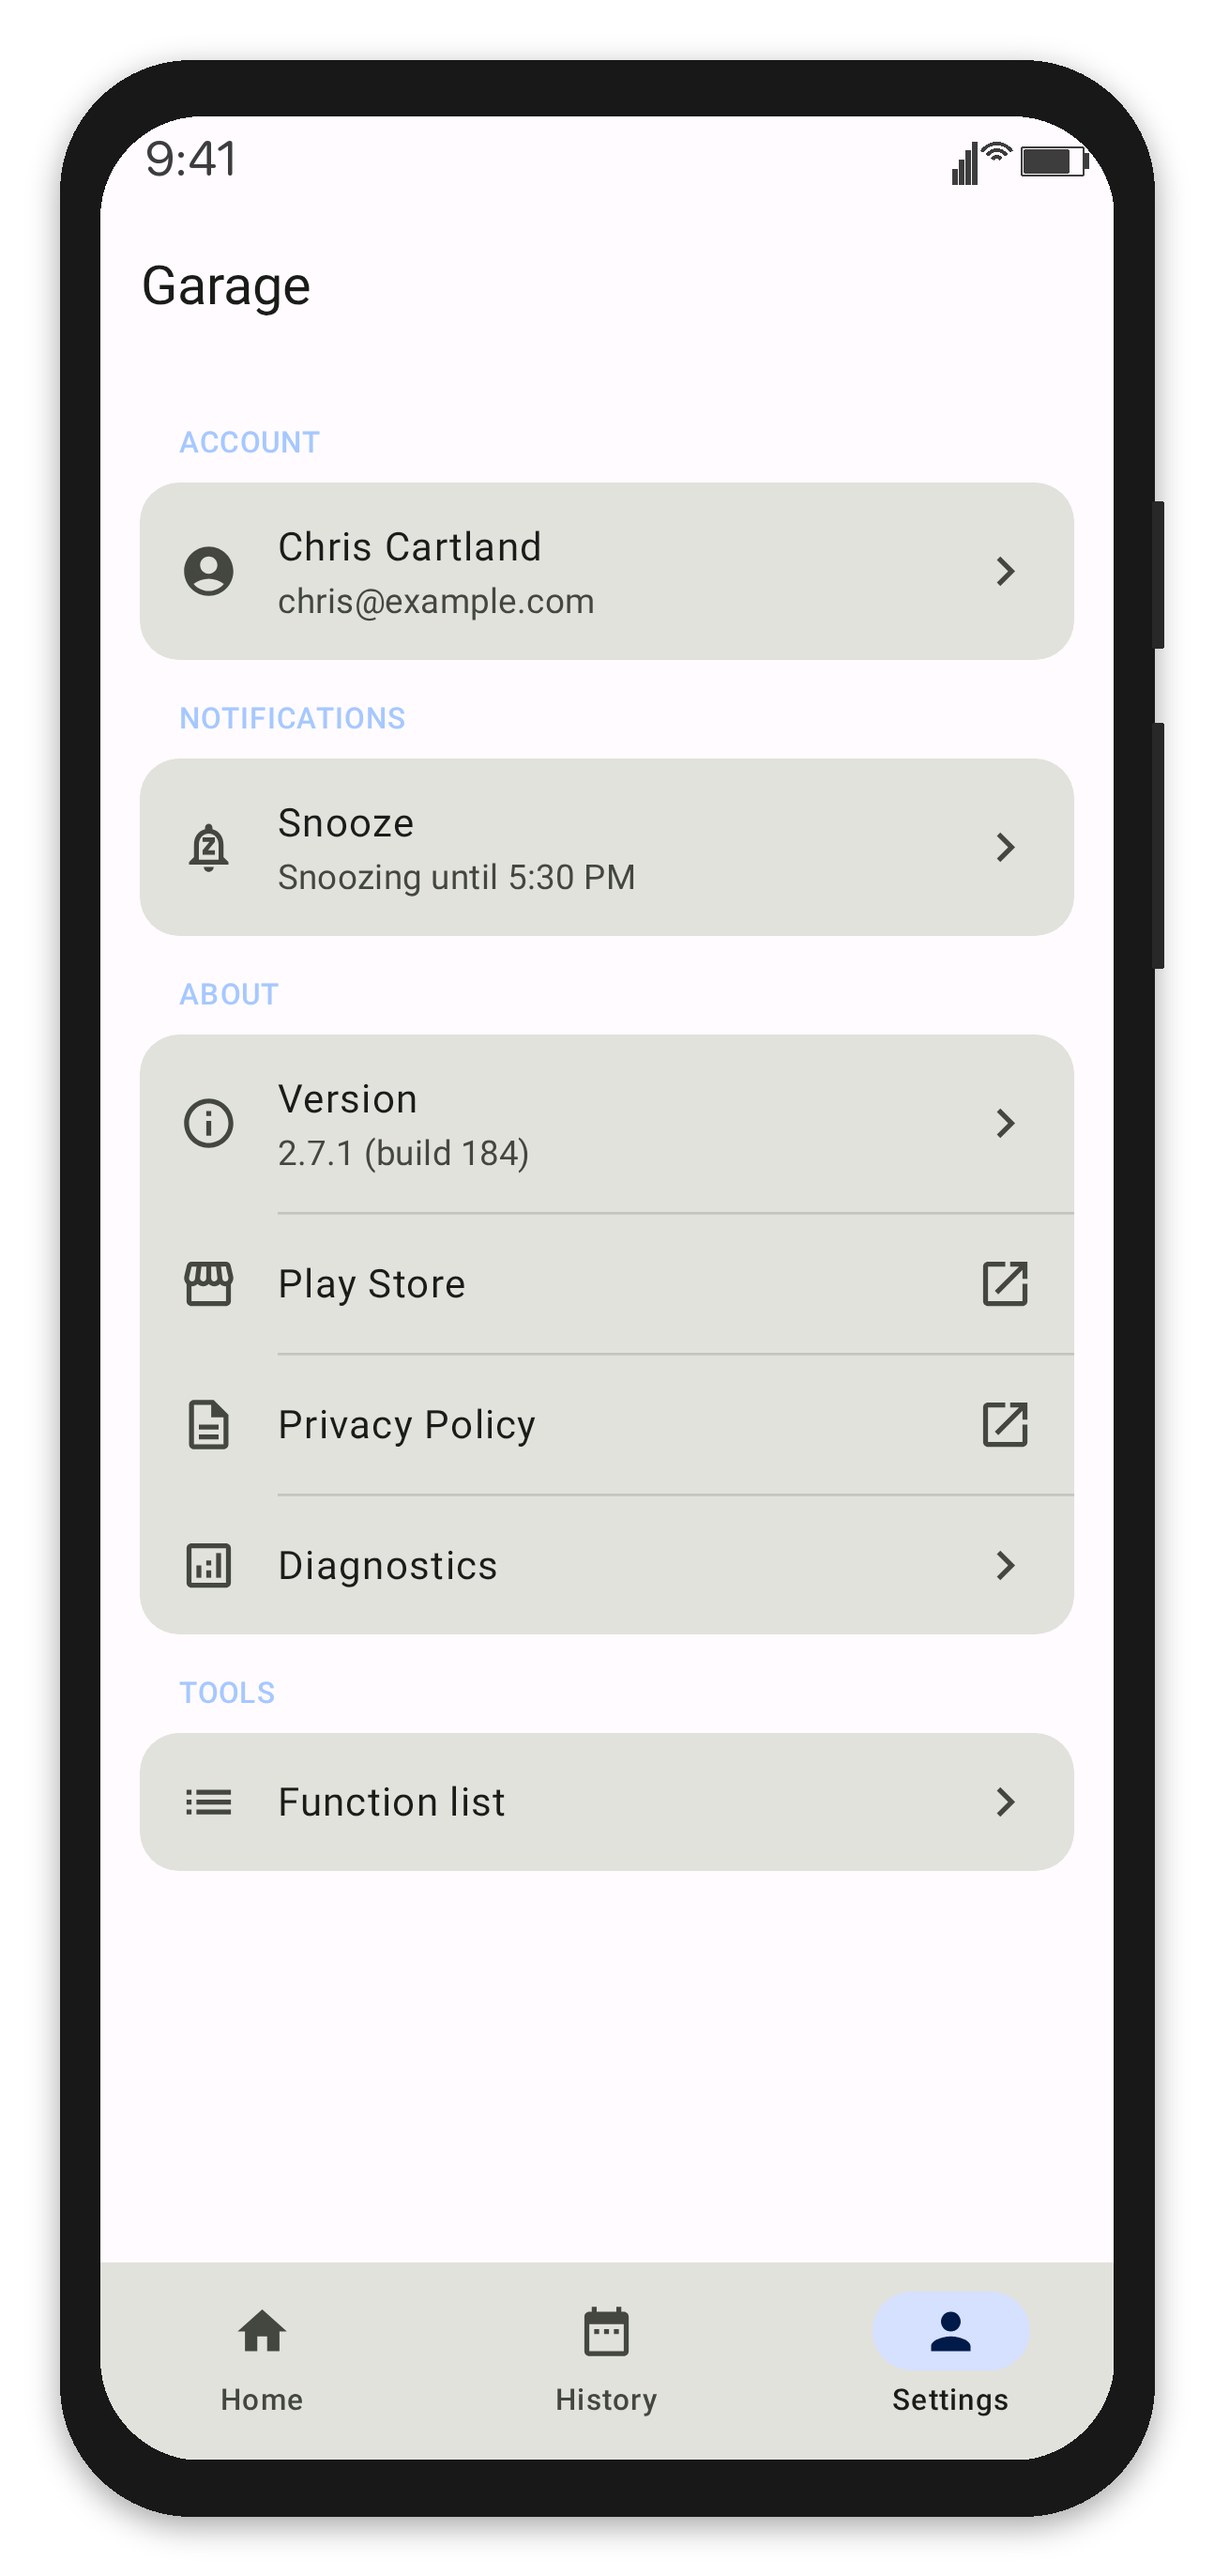
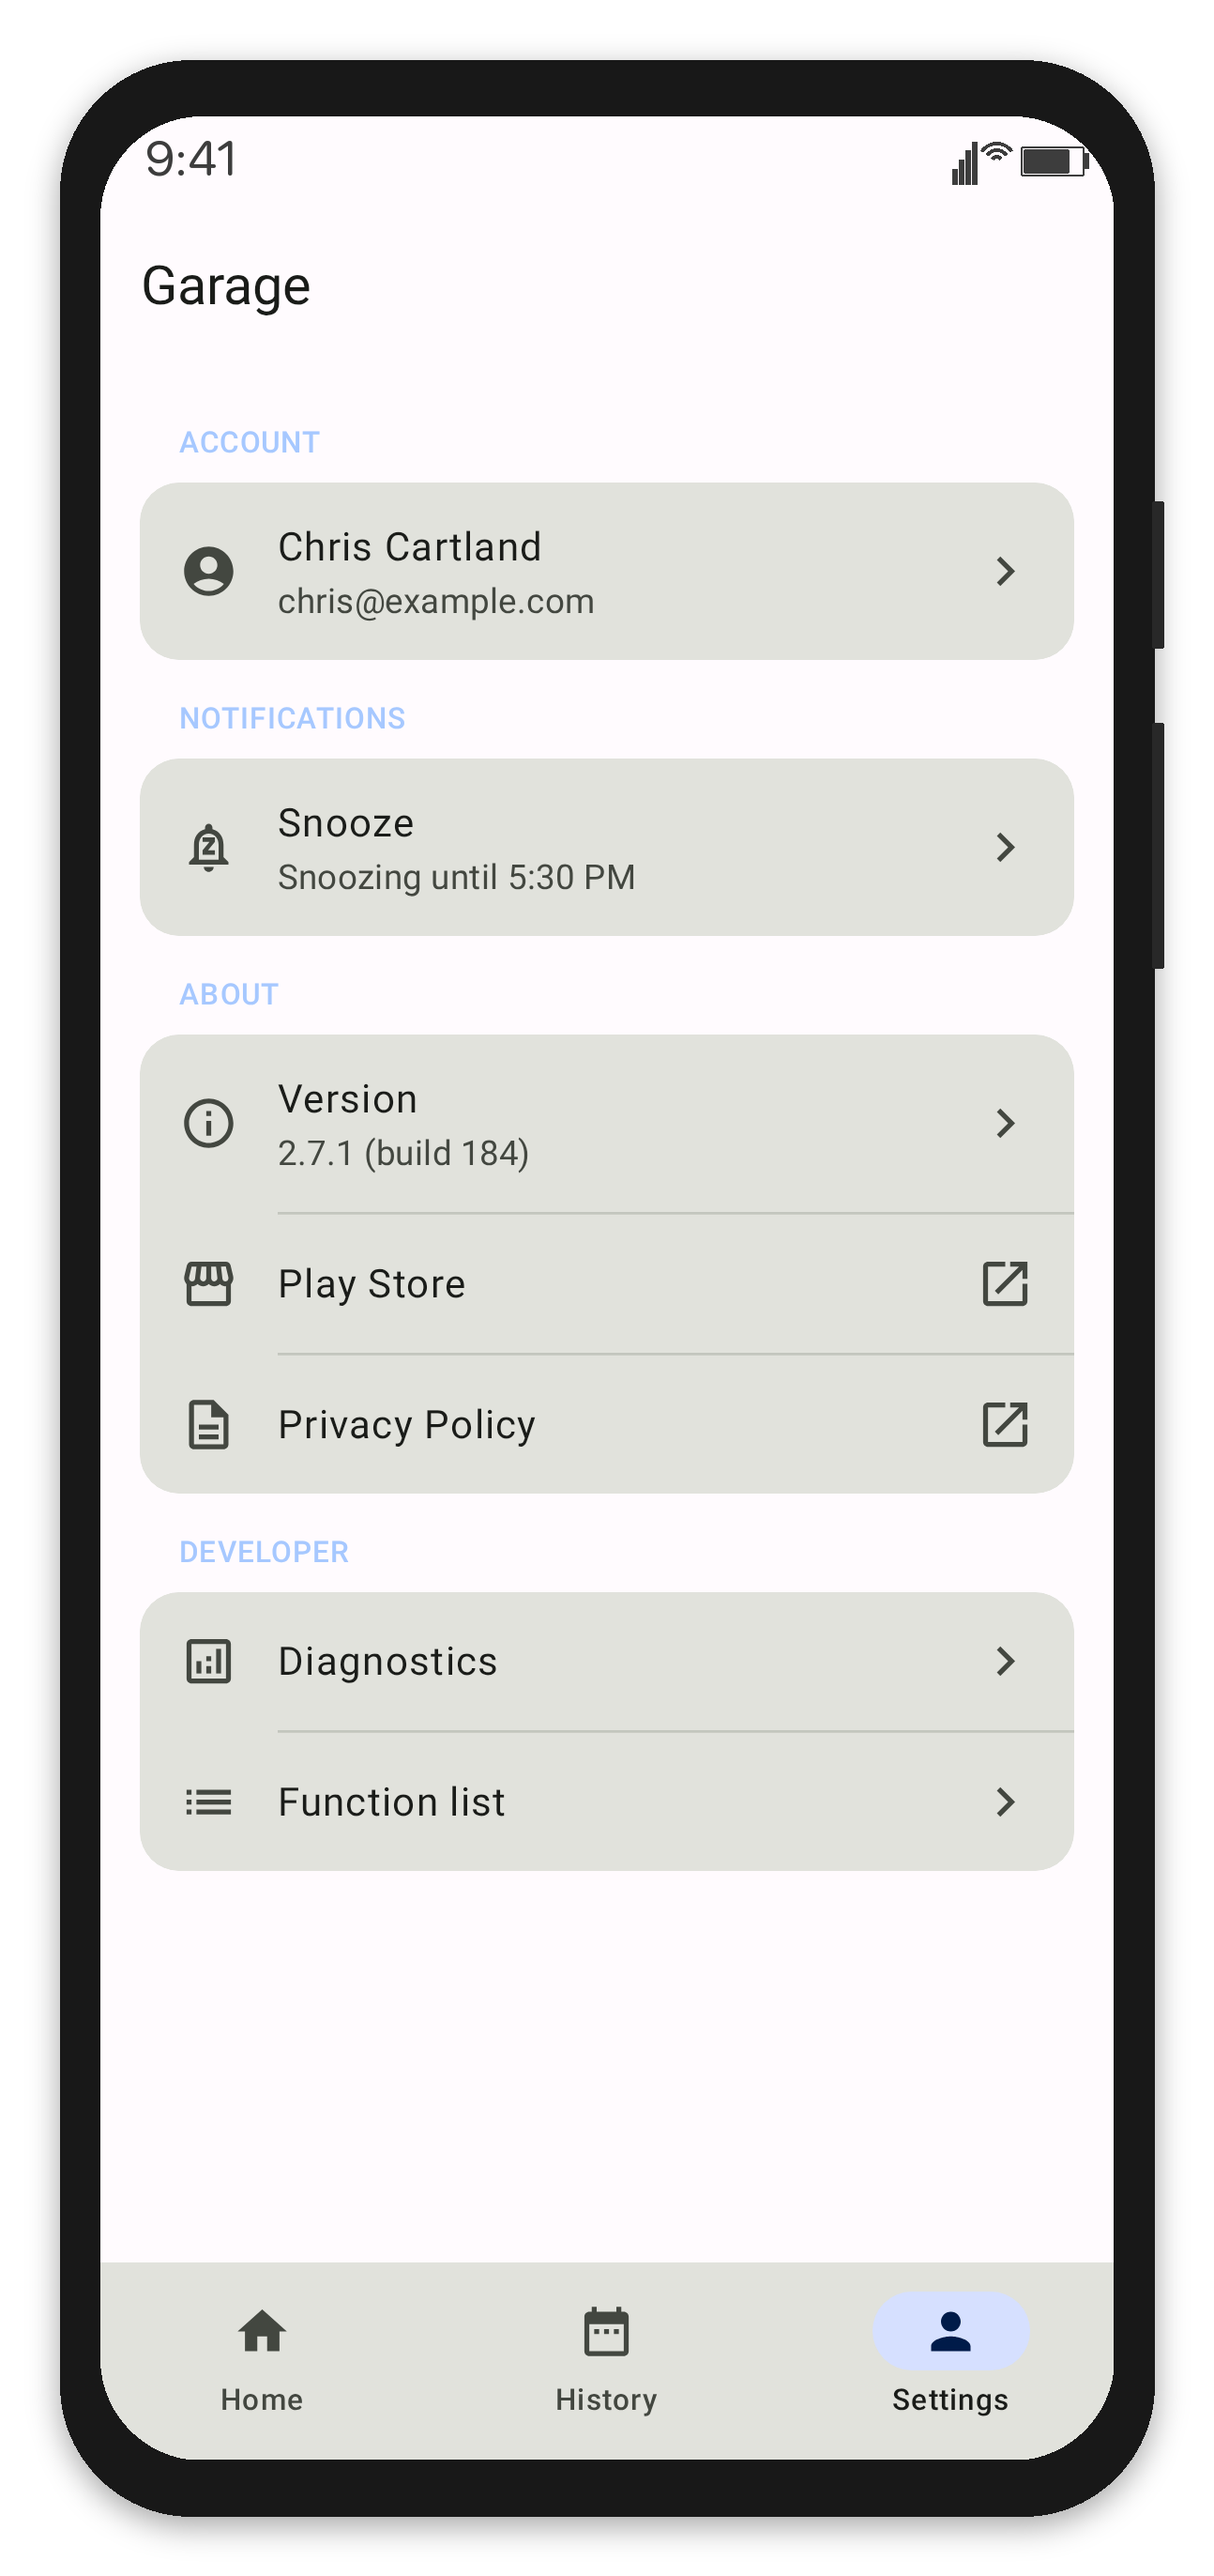
ui(android): Settings — rename Tools → Developer, move Diagnostics in (#648)
Renames the "Tools" Settings section to "Developer" and pulls the
Diagnostics row out of the About section to the top of Developer.
The whole Developer section is now gated by the Functions allowlist
(`functionListAccess == true`), replacing the previous setup where
Diagnostics was independently gated by `appConfig.logSummary` and
shown to all users.

Removes the unused `logSummary` field from `AppConfig` and the
matching `showDiagnosticsRow` parameter from `SettingsContent`.
Renames `showToolsSection` → `showDeveloperSection`.

Follow-up: introduce a dedicated "Developer" allowlist flag and
swap the gate from `functionListAccess` to it, so Functions and
Developer access can be granted independently.

Changed region(s): [[0.0927, 0.5576, 0.8964, 0.6815]]

diff --git a/AndroidGarage/androidApp/src/main/java/com/chriscartland/garage/ui/settings/SettingsContent.kt b/AndroidGarage/androidApp/src/main/java/com/chriscartland/garage/ui/settings/SettingsContent.kt
@@ -92,8 +92,7 @@ fun SettingsContent(
     accountState: AccountRowState,
     snoozeState: SnoozeRowState,
     showSnoozeRow: Boolean,
-    showToolsSection: Boolean,
-    showDiagnosticsRow: Boolean,
+    showDeveloperSection: Boolean,
     versionName: String,
     versionCode: String,
     modifier: Modifier = Modifier,
@@ -179,8 +178,12 @@ fun SettingsContent(
                     showChevron = false,
                     onClick = onPrivacyPolicyTap,
                 )
-                if (showDiagnosticsRow) {
-                    HorizontalDivider(modifier = Modifier.padding(start = 56.dp))
+            }
+        }
+
+        item {
+            AnimatedVisibility(visible = showDeveloperSection) {
+                SettingsSection(label = "Developer") {
                     SettingsRow(
                         icon = Icons.Outlined.Analytics,
                         title = "Diagnostics",
@@ -188,13 +191,7 @@ fun SettingsContent(
                         showChevron = true,
                         onClick = onDiagnosticsTap,
                     )
-                }
-            }
-        }
-
-        item {
-            AnimatedVisibility(visible = showToolsSection) {
-                SettingsSection(label = "Tools") {
+                    HorizontalDivider(modifier = Modifier.padding(start = 56.dp))
                     SettingsRow(
                         icon = Icons.AutoMirrored.Outlined.List,
                         title = "Function list",
@@ -292,8 +289,7 @@ fun SettingsContentSignedOutPreview() {
         accountState = AccountRowState.SignedOut,
         snoozeState = SnoozeRowState.Off,
         showSnoozeRow = true,
-        showToolsSection = false,
-        showDiagnosticsRow = true,
+        showDeveloperSection = false,
         versionName = "2.6.1",
         versionCode = "182",
     )
@@ -309,8 +305,7 @@ fun SettingsContentSignedInBasicPreview() {
         ),
         snoozeState = SnoozeRowState.Off,
         showSnoozeRow = true,
-        showToolsSection = false,
-        showDiagnosticsRow = true,
+        showDeveloperSection = false,
         versionName = "2.6.1",
         versionCode = "182",
     )
@@ -326,8 +321,7 @@ fun SettingsContentSignedInAllowlistedPreview() {
         ),
         snoozeState = SnoozeRowState.SnoozingUntil("5:30 PM"),
         showSnoozeRow = true,
-        showToolsSection = true,
-        showDiagnosticsRow = true,
+        showDeveloperSection = true,
         versionName = "2.6.1",
         versionCode = "182",
     )

diff --git a/AndroidGarage/androidApp/src/main/java/com/chriscartland/garage/ui/ProfileContent.kt b/AndroidGarage/androidApp/src/main/java/com/chriscartland/garage/ui/ProfileContent.kt
@@ -122,8 +122,7 @@ fun ProfileContent(
         snoozeState = snoozeRowState,
         showSnoozeRow = appConfig.snoozeNotificationsOption &&
             notificationPermissionState.status.isGranted,
-        showToolsSection = functionListAccess == true,
-        showDiagnosticsRow = appConfig.logSummary,
+        showDeveloperSection = functionListAccess == true,
         versionName = appVersion.versionName,
         versionCode = appVersion.versionCode.toString(),
         modifier = modifier,

diff --git a/AndroidGarage/androidApp/src/main/java/com/chriscartland/garage/ui/TabPreviews.kt b/AndroidGarage/androidApp/src/main/java/com/chriscartland/garage/ui/TabPreviews.kt
@@ -314,8 +314,7 @@ fun SettingsTabPreview() {
             ),
             snoozeState = SnoozeRowState.SnoozingUntil("5:30 PM"),
             showSnoozeRow = true,
-            showToolsSection = true,
-            showDiagnosticsRow = true,
+            showDeveloperSection = true,
             versionName = "2.7.1",
             versionCode = "184",
         )

diff --git a/AndroidGarage/androidApp/src/main/java/com/chriscartland/garage/config/AppConfigFactory.kt b/AndroidGarage/androidApp/src/main/java/com/chriscartland/garage/config/AppConfigFactory.kt
@@ -34,6 +34,5 @@ object AppConfigFactory {
             serverConfigKey = BuildConfig.SERVER_CONFIG_KEY,
             snoozeNotificationsOption = true,
             remoteButtonPushEnabled = true,
-            logSummary = true,
         )
 }

diff --git a/AndroidGarage/domain/src/commonMain/kotlin/com/chriscartland/garage/domain/model/AppConfig.kt b/AndroidGarage/domain/src/commonMain/kotlin/com/chriscartland/garage/domain/model/AppConfig.kt
@@ -12,5 +12,4 @@ data class AppConfig(
     val serverConfigKey: String,
     val snoozeNotificationsOption: Boolean,
     val remoteButtonPushEnabled: Boolean,
-    val logSummary: Boolean,
 )

diff --git a/AndroidGarage/android-screenshot-tests/SCREENSHOT_GALLERY.md b/AndroidGarage/android-screenshot-tests/SCREENSHOT_GALLERY.md
@@ -2,7 +2,7 @@
 
 # Screenshot Gallery
 
-Generated on Tue May  5 22:24:05 PDT 2026
+Generated on Tue May  5 23:05:07 PDT 2026
 
 ## Table of Contents
 - [ComponentsScreenshotTestKt](#componentsscreenshottestkt)
